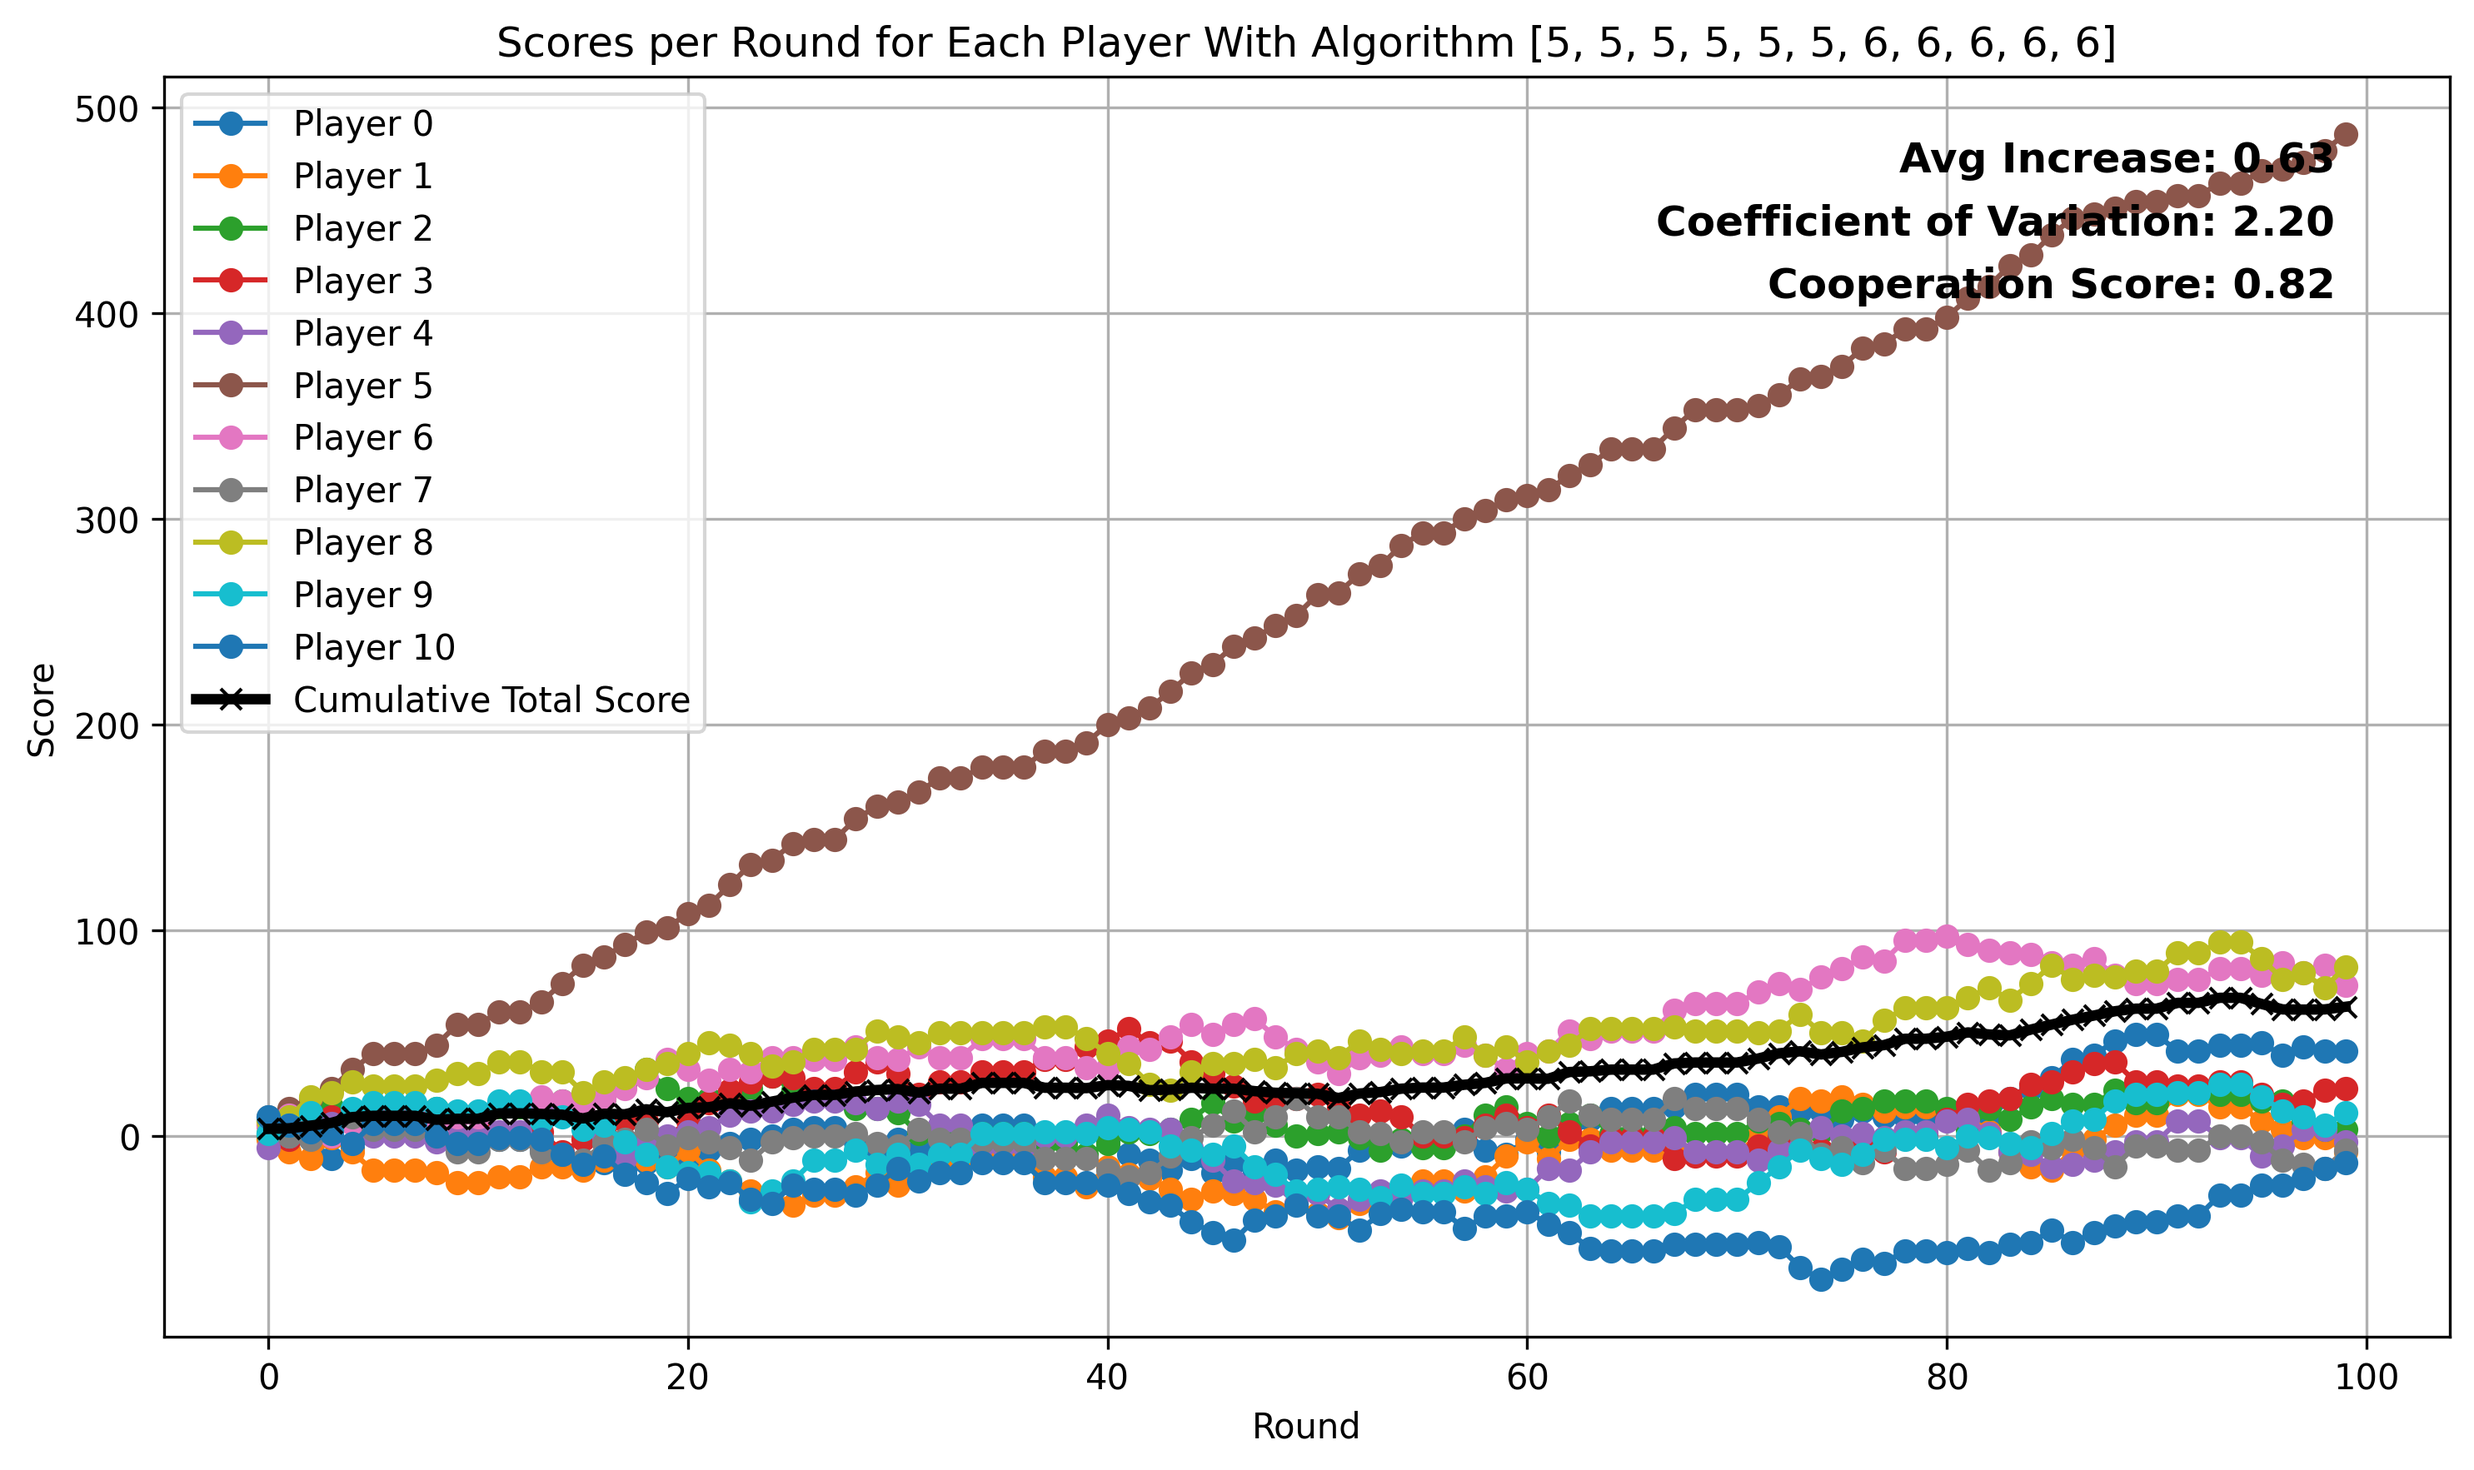
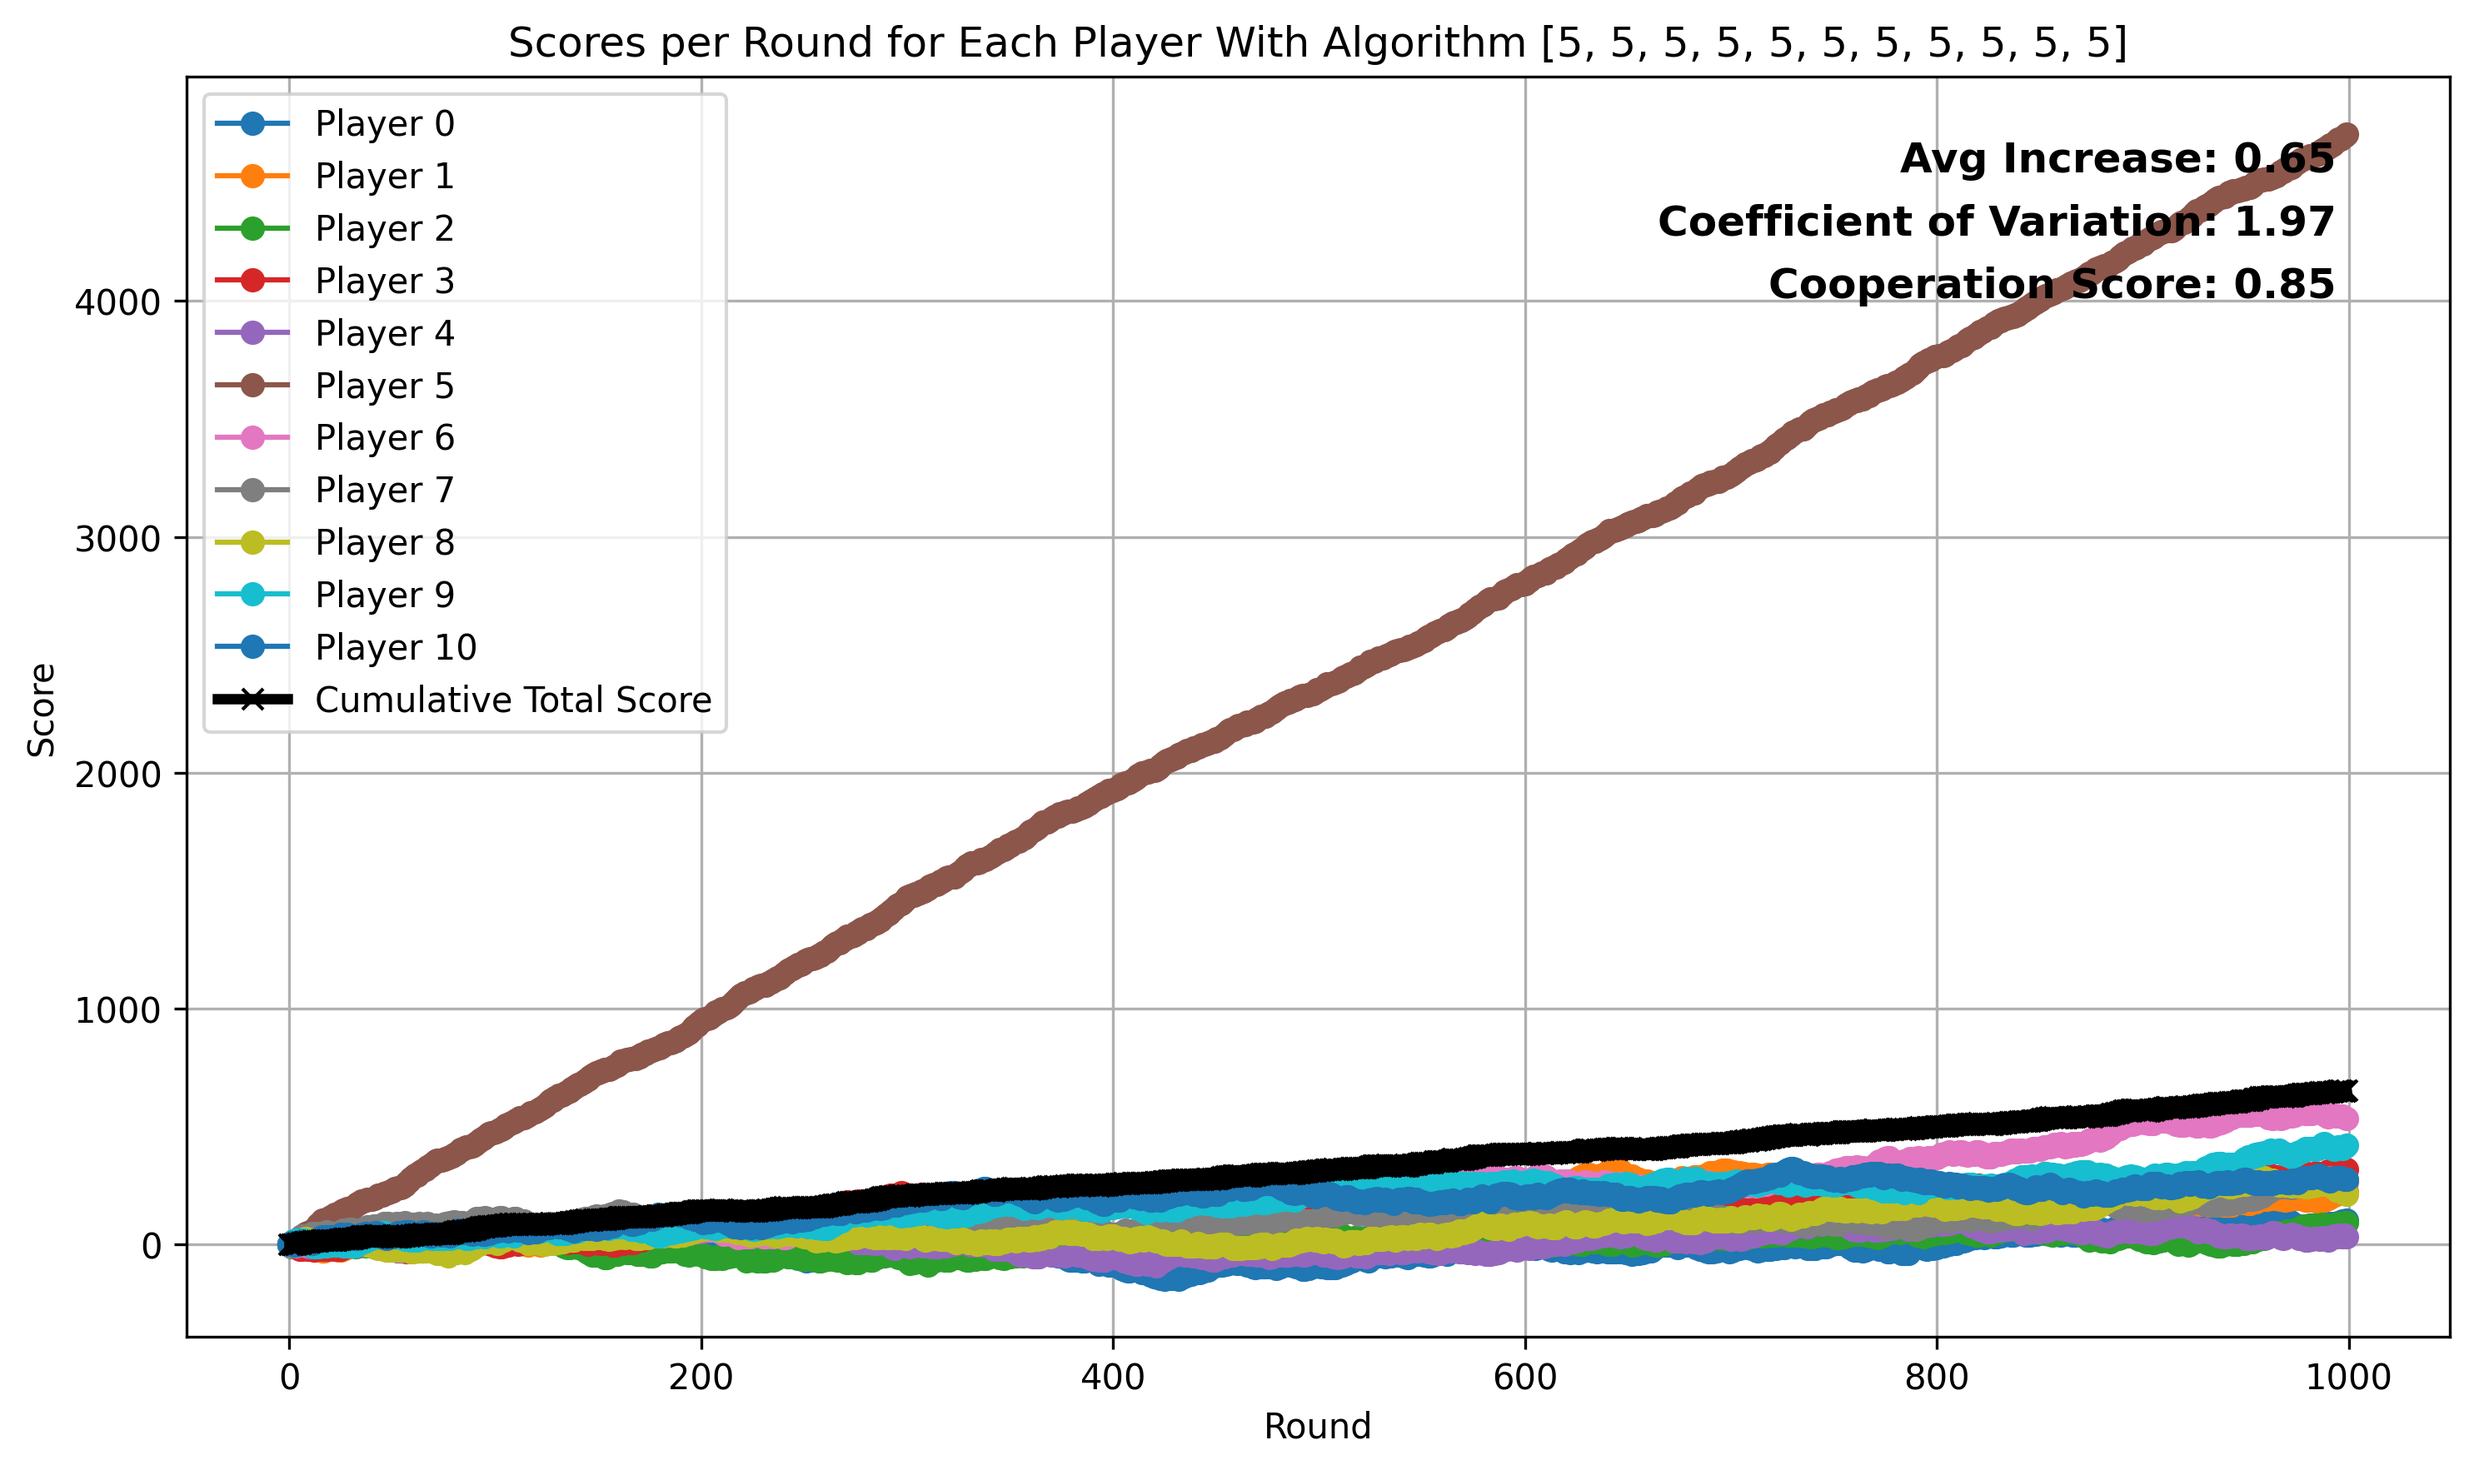
Nope! Its a bug
ignore, gotta fix

diff --git a/offlineSimStuff/social_choice_test.py b/offlineSimStuff/social_choice_test.py
@@ -67,7 +67,7 @@ def run_trial(sim, num_rounds, num_cycles):
         new_list.append(sums_per_round[bot][num_rounds-1])
     std = np.std(new_list)
     mean = np.mean(new_list)
-    cv = std / abs(mean) # measures distribution better than, say, std or mean on their own.
+    cv = std / abs(mean) # measures distribution bet  ter than, say, std or mean on their own.
 
     cooperation_score = cooperation_score / num_rounds # as a percent, how often we cooperated. (had a non negative cause pass)
 
@@ -155,11 +155,11 @@ def graph_nodes(sim):
 
 
 def create_sim():
-    bot_type = 5 # 1 is pareto, 2 is greedy, 3 is random, 4 is betterGreedy, 5 is limitedAwareness, 6 is secondChoice
-    #
+    bot_type = 4 # 1 is pareto, 2 is greedy, 3 is random, 4 is betterGreedy, 5 is limitedAwareness, 6 is secondChoice
+
     chromosomes = r"C:/Users/Sean/Documents/GitHub/OtherGarrettStuff/JHG-SC/offlineSimStuff/chromosomes/bGStandard.csv"
     # SUM: this sets the bot list type, so we can have siutaions set up
-    scenario = r"C:\Users\Sean\Documents\GitHub\OtherGarrettStuff\JHG-SC\offlineSimStuff\scenarioIndicator\limitedAwareGreedy+secondChoice"
+    scenario = r"C:\Users\Sean\Documents\GitHub\OtherGarrettStuff\JHG-SC\offlineSimStuff\scenarioIndicator\allGreedy"
     cycle = -1 # a negative cycle indicates to me that this is a test - that, or something is really really wrong.
 
     sim = Social_Choice_Sim(11, 3, 0, bot_type, cycle, chromosomes, scenario)
@@ -169,7 +169,7 @@ def create_sim():
 
 
 if __name__ == "__main__":
-    num_rounds = 100
+    num_rounds = 1000
     num_cycles = 3
     current_sim = create_sim()
     run_trial(current_sim, num_rounds, num_cycles)
